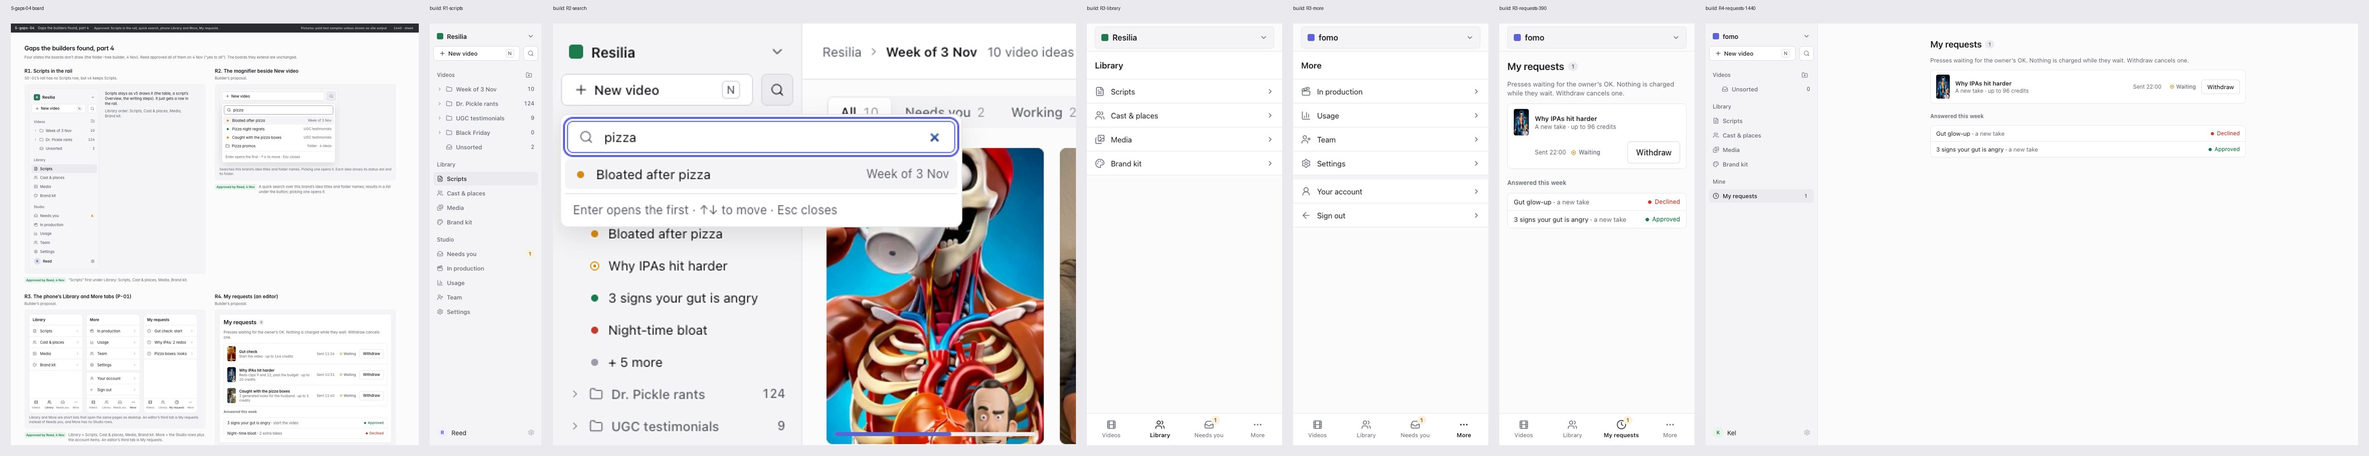
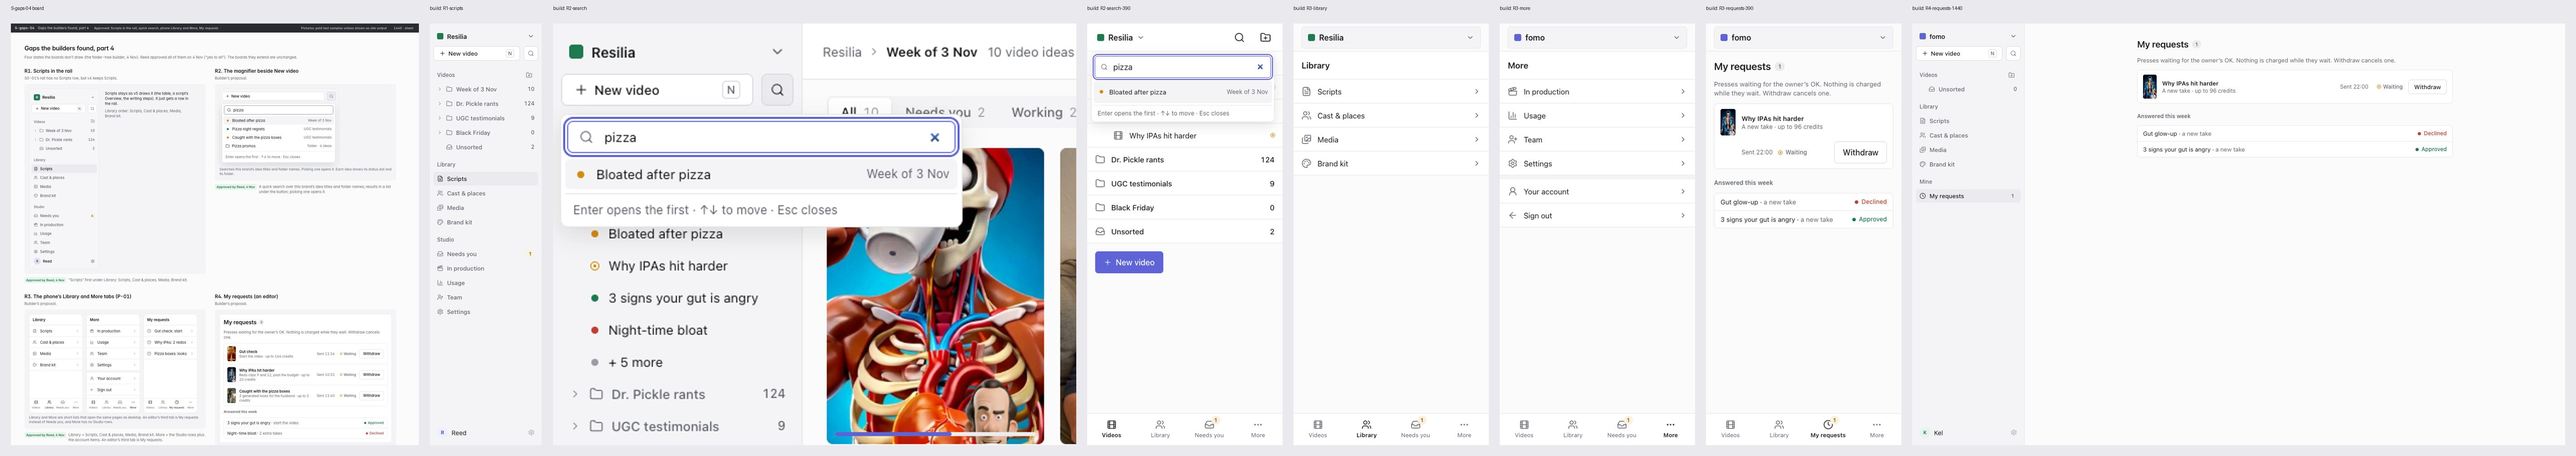
QA second pass on #1321: the phone's folder ⋯ is a popover and renames in the top bar (S-gaps-06, 19); 44 px ticks on a phone

diff --git a/web/src/videos/FolderPage.tsx b/web/src/videos/FolderPage.tsx
@@ -77,7 +77,17 @@ export function FolderPage() {
   const name = folder === UNSORTED ? "Unsorted" : (open?.name ?? "");
   const view = params.get("view") === "list" || (params.get("view") !== "cards" && (first?.counts.all ?? 0) >= BIG) ? "list" : "cards";
   const list = rail && view === "list";
-  const actions = useFolderActions(brandId, folder === UNSORTED ? undefined : open, { onDeleted: (parent) => set({ folder: parent ? String(parent) : "", archived: "", tab: "" }) });
+  // A phone renames in the top bar (S-gaps-06, 19); a computer in a dialog.
+  const [renaming, setRenaming] = useState<string | null>(null);
+  const actions = useFolderActions(brandId, folder === UNSORTED ? undefined : open, { onDeleted: (parent) => set({ folder: parent ? String(parent) : "", archived: "", tab: "" }), renameInPlace: rail ? undefined : () => setRenaming(open?.name ?? "") });
+  const endRename = useRef(false);
+  const saveName = async (keep: boolean) => {
+    if (endRename.current) return;
+    endRename.current = true;
+    const to = renaming?.trim();
+    setRenaming(null);
+    if (keep && to && to !== open?.name) await actions.rename(to).catch((e: Error) => toast(e.message, undefined, "error"));
+  };
 
   // Several selected (S1-07): ticks on hover, on every card once one is ticked; Esc or × clears them.
   // A selection belongs to the view it was made in: another folder, tab or Archived starts with none.
@@ -152,6 +162,7 @@ export function FolderPage() {
     <Menu
       title={name}
       align="right"
+      popover
       trigger={(p) => (
         <button type="button" {...p} aria-label={`More for ${name}`} className="grid size-control shrink-0 place-items-center rounded-md text-muted hover:bg-surface-2 lg:size-8">
           <Ellipsis size={16} strokeWidth={1.75} aria-hidden />
@@ -200,7 +211,21 @@ export function FolderPage() {
               <ChevronLeft size={22} strokeWidth={1.75} aria-hidden />
             </Link>
             <div className="min-w-0">
-              <h1 className="truncate text-lg font-semibold">{name}</h1>
+              {renaming !== null ? (
+                <input
+                  aria-label={`Rename ${name}`}
+                  autoFocus
+                  value={renaming}
+                  maxLength={120}
+                  onFocus={() => (endRename.current = false)}
+                  onChange={(e) => setRenaming(e.target.value)}
+                  onKeyDown={(e) => (e.key === "Enter" ? void saveName(true) : e.key === "Escape" && void saveName(false))}
+                  onBlur={() => void saveName(true)}
+                  className="h-8 w-full rounded-md border border-accent bg-surface px-2 text-lg font-semibold outline-none"
+                />
+              ) : (
+                <h1 className="truncate text-lg font-semibold">{name}</h1>
+              )}
               <p className="truncate text-sm text-muted">{[brand?.name, sub].filter(Boolean).join(" · ")}</p>
             </div>
           </>

diff --git a/web/src/videos/IdeaCards.tsx b/web/src/videos/IdeaCards.tsx
@@ -23,10 +23,11 @@ function Still({ i, className }: { i: Idea; className: string }) {
 }
 
 /** A tick box: S1-07's on a card, S1-05's on a row. */
-function Tick({ on, label, onChange, className = "" }: { on: boolean; label: string; onChange: () => void; className?: string }) {
+function Tick({ on, label, onChange, className = "", big }: { on: boolean; label: string; onChange: () => void; className?: string; /** a 44 px press around the box (a phone) */ big?: boolean }) {
+  const box = <span className={`grid size-4 shrink-0 place-items-center rounded-sm border ${on ? "border-accent bg-accent text-on-accent" : "border-border-strong bg-surface"}`}>{on && <Check size={12} strokeWidth={2.5} aria-hidden />}</span>;
   return (
-    <button type="button" role="checkbox" aria-checked={on} aria-label={label} onClick={(e) => (e.preventDefault(), e.stopPropagation(), onChange())} className={`grid size-4 shrink-0 place-items-center rounded-sm border ${on ? "border-accent bg-accent text-on-accent" : "border-border-strong bg-surface"} ${className}`}>
-      {on && <Check size={12} strokeWidth={2.5} aria-hidden />}
+    <button type="button" role="checkbox" aria-checked={on} aria-label={label} onClick={(e) => (e.preventDefault(), e.stopPropagation(), onChange())} className={`grid shrink-0 place-items-center ${big ? "size-control" : ""} ${className}`}>
+      {box}
     </button>
   );
 }
@@ -75,7 +76,7 @@ export function IdeaCard({ brandId, i, phone, picked, picking, onPick }: { brand
           {!phone && <span className="text-xs text-muted tabular-nums">{costText(i.cost)}</span>}
         </span>
       </Link>
-      {onPick && (!phone || picking) && <Tick on={picked} label={`Select ${i.title}`} onChange={onPick} className={`absolute right-2 top-2 ${picking || picked ? "" : "opacity-0 group-hover:opacity-100 focus-visible:opacity-100"}`} />}
+      {onPick && (!phone || picking) && <Tick on={picked} big={phone} label={`Select ${i.title}`} onChange={onPick} className={`absolute ${phone ? "right-0 top-0" : "right-2 top-2"} ${picking || picked ? "" : "opacity-0 group-hover:opacity-100 focus-visible:opacity-100"}`} />}
     </div>
   );
 }

diff --git a/web/src/videos/folder.test.tsx b/web/src/videos/folder.test.tsx
@@ -217,3 +217,17 @@ test("an empty Unsorted says where new ideas land, with New video and no folder 
   expect(within(screen.getByRole("main")).getAllByRole("link", { name: "New video" }).length).toBeGreaterThan(0);
   expect(screen.queryByRole("button", { name: "New folder inside" })).toBeNull();
 });
+
+test("on a phone, the folder's ⋯ opens under it and Rename edits the name in the top bar (S-gaps-06, 19)", async () => {
+  setViewport(390);
+  const calls = fakeServer({ ...base(owner), "PATCH /folders/4": [200, {}] });
+  open();
+  await userEvent.click(await within(await screen.findByRole("main")).findByRole("button", { name: "More for Week of 3 Nov" }));
+  expect(screen.getByRole("menu", { name: "Week of 3 Nov" })).toBeInTheDocument(); // a popover, not a sheet
+  expect(screen.queryByRole("dialog", { name: "Week of 3 Nov" })).toBeNull();
+  await userEvent.click(screen.getByRole("menuitem", { name: "Rename" }));
+  const box = screen.getByRole("textbox", { name: "Rename Week of 3 Nov" });
+  await userEvent.clear(box);
+  await userEvent.type(box, "Week of 10 Nov{Enter}");
+  await vi.waitFor(() => expect(calls.find((c) => c.key === "PATCH /folders/4")?.body).toEqual({ name: "Week of 10 Nov" }));
+});

diff --git a/web/src/components/Menu.tsx b/web/src/components/Menu.tsx
@@ -7,8 +7,8 @@ import { useViewOnly } from "./ViewOnly";
  * A menu opened from a button: a popover on desktop, a bottom sheet on a phone.
  * Escape and a tap outside close it; focus goes back to the button. `up` opens it above the button (the rail's account row).
  */
-export function Menu({ title, trigger, align = "left", up = false, children }: { title: string; trigger: (p: { open: boolean; onClick: () => void; "aria-haspopup": "menu"; "aria-expanded": boolean }) => ReactNode; align?: "left" | "right"; up?: boolean; children: (close: () => void) => ReactNode }) {
-  const phone = useMedia("(max-width: 767px)");
+export function Menu({ title, trigger, align = "left", up = false, popover = false, children }: { title: string; trigger: (p: { open: boolean; onClick: () => void; "aria-haspopup": "menu"; "aria-expanded": boolean }) => ReactNode; align?: "left" | "right"; up?: boolean; /** a popover on a phone too, not a sheet */ popover?: boolean; children: (close: () => void) => ReactNode }) {
+  const phone = useMedia("(max-width: 767px)") && !popover;
   const [open, setOpen] = useState(false);
   const root = useRef<HTMLDivElement>(null);
   useEffect(() => {
